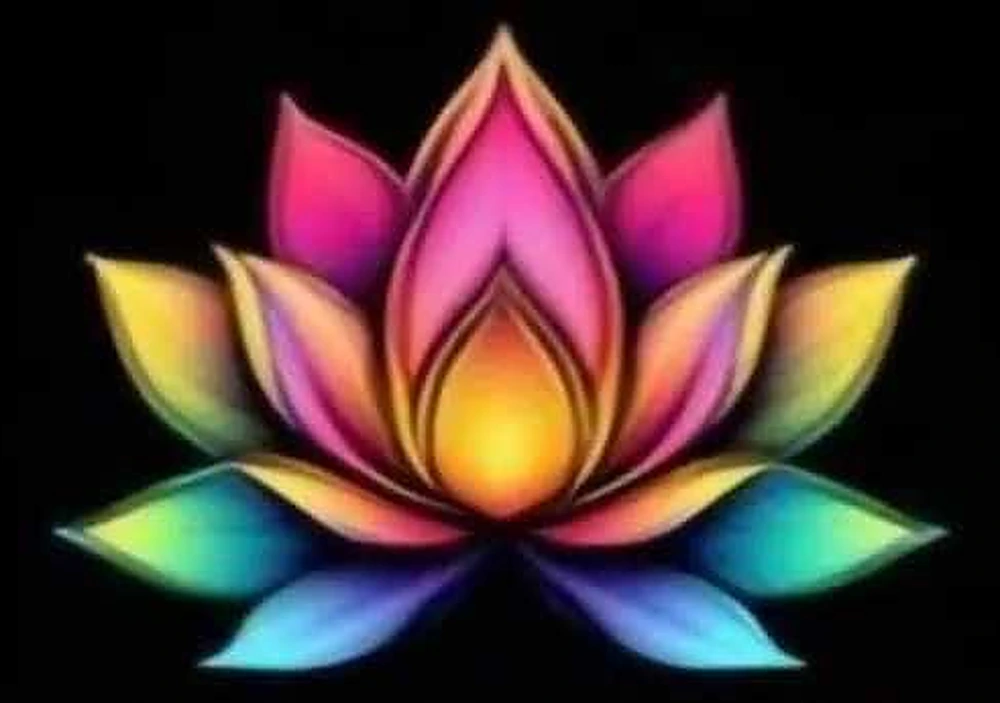
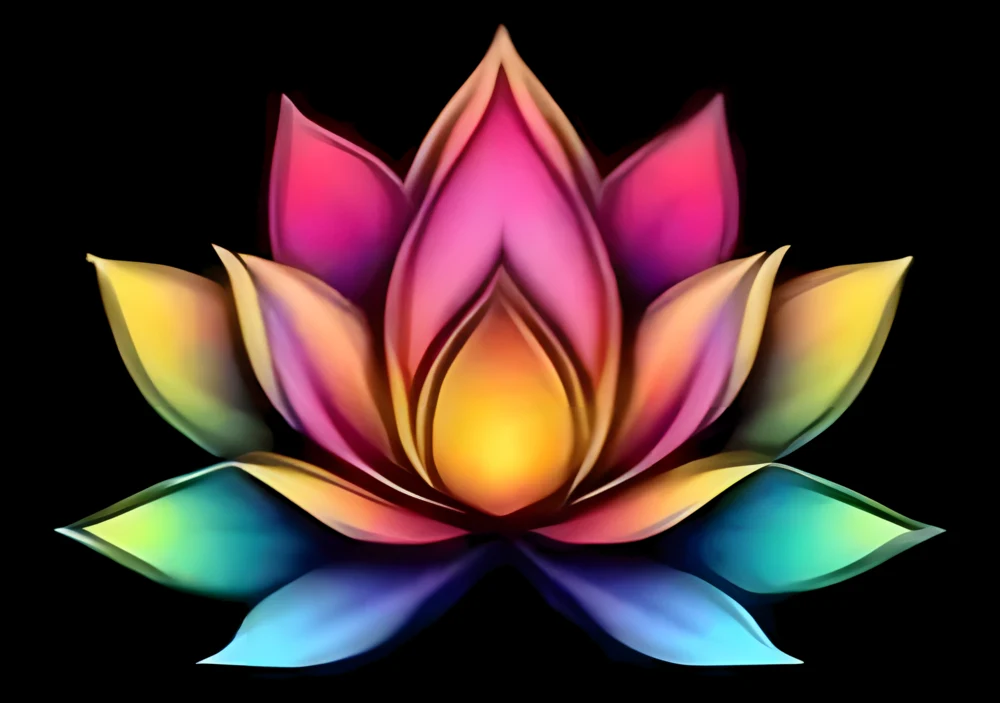
Ostry kwiat lotosu z wizytówki w hero i na voucherze, aktualny opis bonu

diff --git a/index.html b/index.html
@@ -220,7 +220,7 @@
   <div class="wrap bon-blok">
     <div class="bon-blok__scena">
       <div class="bon-blok__foto luk"><img src="assets/img/real-wnetrze-mural-budda-600.webp" srcset="assets/img/real-wnetrze-mural-budda-300.webp 300w, assets/img/real-wnetrze-mural-budda-600.webp 600w, assets/img/real-wnetrze-mural-budda-1000.webp 1000w" sizes="(min-width: 900px) 480px, 92vw" width="1126" height="1840" alt="Gabinet zabiegowy Amaris z&nbsp;muralem twarzy Buddy, marokańską lampą i&nbsp;łóżkiem do&nbsp;masażu" loading="lazy" decoding="async"></div>
-      <img class="bon-blok__karta" src="assets/logo/bon-karta.svg" alt="Bon podarunkowy salonu Amaris z miejscem na imię obdarowanej osoby" width="856" height="540" loading="lazy">
+      <img class="bon-blok__karta" src="assets/logo/bon-karta.svg" alt="Voucher podarunkowy salonu Amaris – biała karta ze złotą kokardą i logo lotosu" width="856" height="540" loading="lazy">
     </div>
     <div class="bon-blok__tekst">
       <p class="etykieta"><span class="etykieta__nr">03</span><span class="etykieta__kreska" aria-hidden="true"></span>Bon podarunkowy</p>

diff --git a/bon.html b/bon.html
@@ -60,7 +60,7 @@
     </div>
     <div class="podhero__foto">
       <div class="luk-rama"><div class="luk luk--szer"><img src="assets/img/naglowek-bon-800.webp" srcset="assets/img/naglowek-bon-800.webp 800w, assets/img/naglowek-bon-1126.webp 1126w" sizes="(min-width: 1240px) 640px, (min-width: 900px) 52vw, calc(100vw - 48px)" width="800" height="533" alt="Gabinet zabiegowy Amaris – mural z&nbsp;twarzą Buddy i&nbsp;marokańska lampa" fetchpriority="high"></div></div>
-      <img class="podhero__bon" src="assets/logo/bon-karta.svg" alt="Bon podarunkowy salonu Amaris z miejscem na imię obdarowanej osoby i darczyńcy" width="856" height="540">
+      <img class="podhero__bon" src="assets/logo/bon-karta.svg" alt="Voucher podarunkowy salonu Amaris – biała karta ze złotą kokardą i logo lotosu" width="856" height="540">
     </div>
   </div>
 </section>
